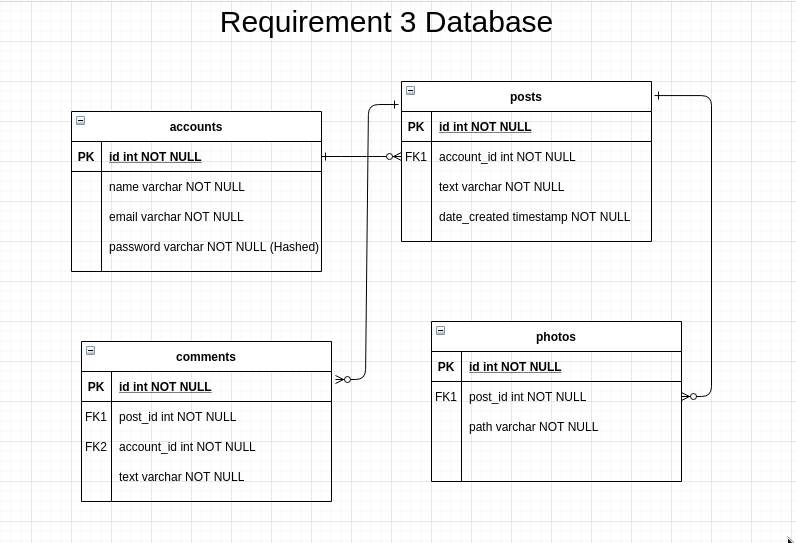
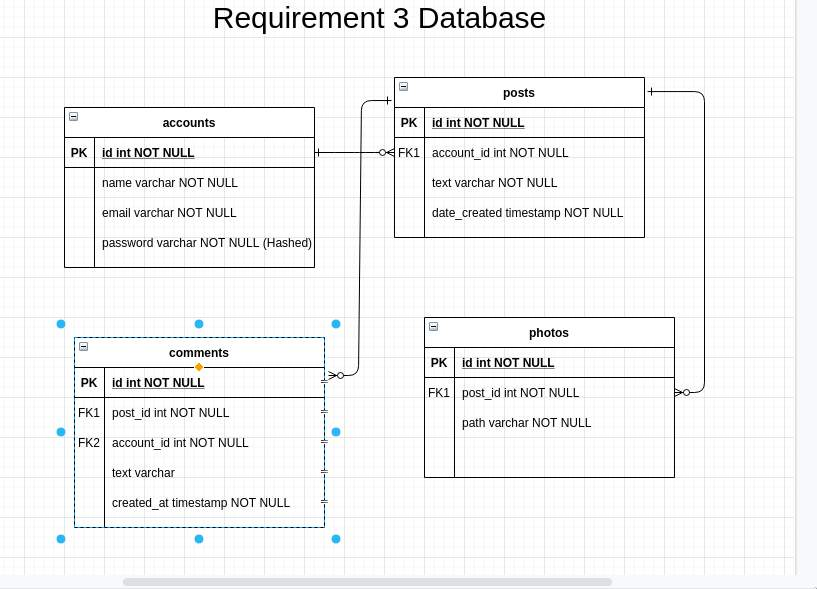
added comment table in migration

diff --git a/migrations/20210429053149-createTables.js b/migrations/20210429053149-createTables.js
@@ -57,6 +57,28 @@ module.exports = {
       }
     });
     await queryInterface.createTable('comments', {
+      id: {
+        autoIncrement: true,
+        type: Sequelize.INTEGER,
+        allowNull: false,
+        primaryKey: true
+      },
+      post_id: {
+        type: Sequelize.INTEGER,
+        allowNull: false,
+        references: {
+          model: 'posts',
+          key: 'id'
+        }
+      },
+      text: {
+        type: Sequelize.STRING,
+        allowNull: true,
+      },
+      created_at: {
+        type: Sequelize.DATE,
+        allowNull: false
+      }
     });
 
     await queryInterface.createTable('photos', {
